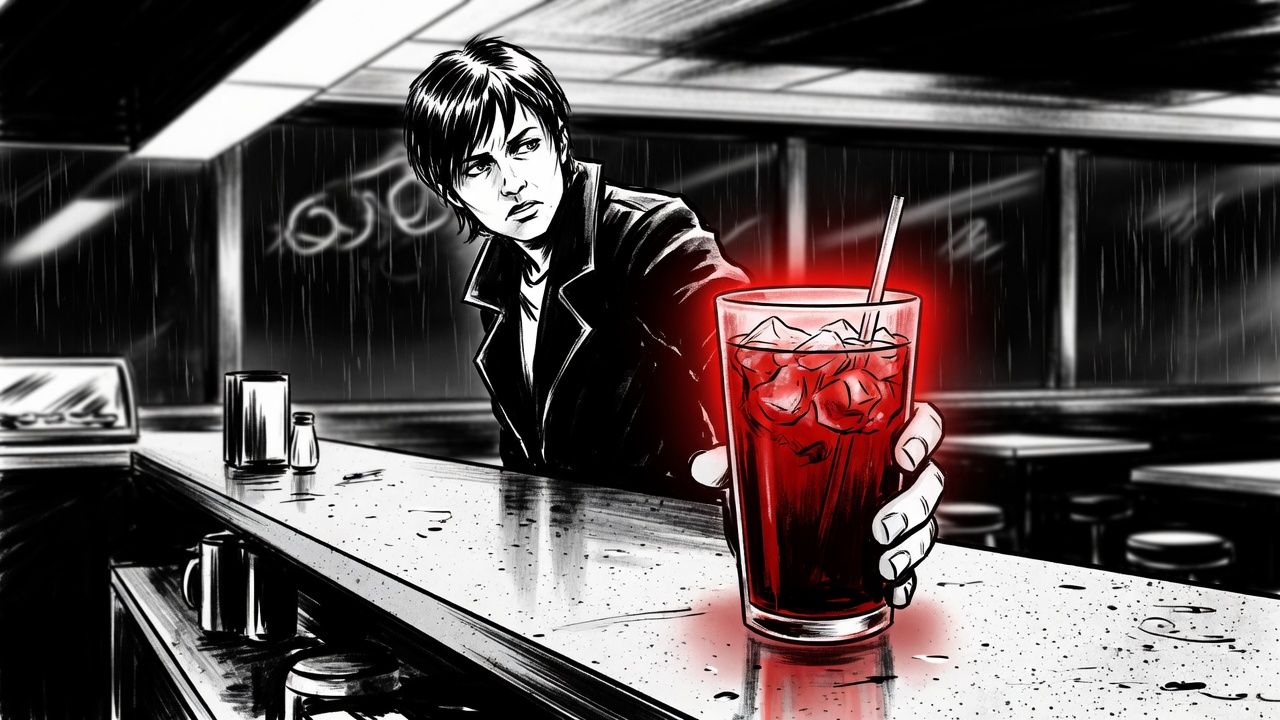
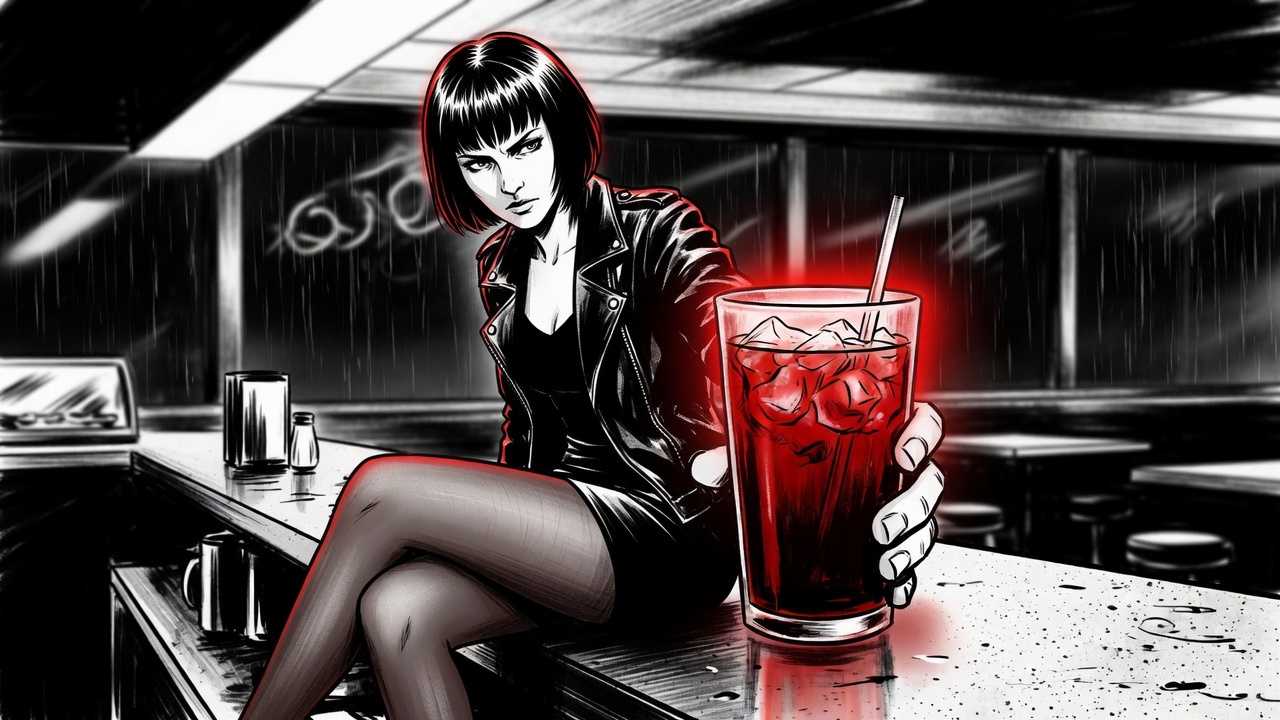
docs: 主页封面换成短发黑丝

Changed region(s): [[0.1875, 0.0306, 0.5938, 1.0]]

diff --git a/docs/readme-preview.html b/docs/readme-preview.html
@@ -1,5 +1,5 @@
 <!doctype html><html lang="zh-CN"><head><meta charset="utf-8"><meta name="viewport" content="width=device-width,initial-scale=1"><title>冷咖啡 · 仓库主页新版预览</title><style>*{box-sizing:border-box}body{margin:0;color:#1f2328;background:#fff;font:14px/1.65 -apple-system,BlinkMacSystemFont,"Segoe UI","Microsoft YaHei",sans-serif}a{color:#0969da;text-decoration:none}a:hover{text-decoration:underline}.appbar{background:#f6f8fa;border-bottom:1px solid #d1d9e0;padding:18px 30px;display:flex;justify-content:space-between;align-items:center;gap:20px}.repo-name{font-size:14px;font-weight:600}.preview-label{font-size:12px;color:#656d76}.repo-tabs{background:#f6f8fa;padding:0 30px;display:flex;gap:25px;border-bottom:1px solid #d1d9e0}.repo-tabs span{padding:12px 0;font-size:13px}.repo-tabs .selected{border-bottom:2px solid #f78166}.container{max-width:1200px;padding:28px;margin:auto}.notice{border:1px solid #d1d9e0;border-radius:7px;background:#f6f8fa;padding:14px 18px;margin-bottom:24px;display:flex;justify-content:space-between;align-items:center;gap:20px}.notice a{background:#1f2328;color:#fff;border-radius:6px;padding:8px 14px;white-space:nowrap}.repo-grid{display:grid;grid-template-columns:minmax(0,880px) 220px;gap:25px}.readme{border:1px solid #d1d9e0;border-radius:7px;overflow:hidden;min-width:0}.readme-tab{font-size:12px;padding:12px 18px;border-bottom:1px solid #d1d9e0;font-weight:600}.markdown-body{padding:30px;font-size:14px}.markdown-body img{max-width:100%;height:auto}.markdown-body h1{font-size:30px;border-bottom:1px solid #d1d9e0;padding-bottom:12px;margin:22px 0 16px}.markdown-body h2{font-size:22px;border-bottom:1px solid #d1d9e0;padding-bottom:9px;margin:34px 0 16px;scroll-margin-top:20px}.markdown-body p{margin:12px 0 18px}.markdown-body sub{color:#656d76;font-size:11px}.markdown-body table{width:100%;border-collapse:collapse;font-size:12px;margin:20px 0}.markdown-body td,.markdown-body th{border:1px solid #d1d9e0;padding:12px}.markdown-body th{background:#f6f8fa}.markdown-body blockquote{margin:24px 0;border-left:4px solid #c92537;background:#fff7f7;padding:10px 18px;color:#4f353a}.markdown-body blockquote p{margin:7px 0}.markdown-body pre{padding:16px;border-radius:7px;background:#f6f8fa;overflow:auto}.markdown-body code{font-family:Consolas,monospace;font-size:12px}.markdown-body details{border:1px solid #d1d9e0;padding:14px;border-radius:7px;margin-top:20px}.markdown-body summary{cursor:pointer;font-weight:600}.markdown-body hr{border:0;border-top:1px solid #d1d9e0;margin-top:30px}.about h3{font-size:15px;margin:0 0 14px}.about p{font-size:13px;color:#656d76}.about .tag{display:inline-block;font-size:11px;background:#ddf4ff;color:#0969da;border-radius:14px;padding:3px 9px;margin:0 3px 7px 0}.about hr{border:0;border-top:1px solid #d1d9e0;margin:22px 0}.about a{display:block;margin-top:12px;font-size:12px}@media(max-width:900px){.repo-grid{grid-template-columns:1fr}.about{display:none}.container{padding:16px}.markdown-body{padding:20px}.appbar{padding:15px}.preview-label{display:none}}@media(max-width:520px){.markdown-body{padding:12px;font-size:12px}.markdown-body h1{font-size:23px}.markdown-body th,.markdown-body td{padding:5px;font-size:10px}.notice{display:block;font-size:12px}.notice a{display:inline-block;margin-top:10px}.repo-tabs{gap:14px;padding:0 16px}.repo-tabs span{font-size:11px}}</style></head><body><header class="appbar"><div class="repo-name">3641397194-wq / <strong>gpt6-Astra</strong></div><span class="preview-label">仓库主页排版预览 · 非 GitHub 在线页面</span></header><nav class="repo-tabs"><span class="selected">代码与说明</span><span>问题讨论</span><span>变更记录</span><span>项目文档</span></nav><div class="container"><div class="notice"><span><strong>三个系统同一套界面。</strong> Key 在 coldcoffeeai.com 买，贴进软件里。仓库里不放 Key。</span><a href="/workbench/">打开软件交互预览 ↗</a></div><div class="repo-grid"><article class="readme"><div class="readme-tab">README.md · 项目主页</div><div class="markdown-body"><div align="center">
-  <img src="/docs/assets/coldcoffee-cover-v5-2a16c6d53e7a.jpg" width="100%" alt="冷咖啡黑白漫画主视觉，夜班吧台和一杯冰美式" />
+  <img src="/docs/assets/coldcoffee-cover-v5-80a57a233bf7.jpg" width="100%" alt="冷咖啡黑白漫画主视觉，夜班吧台和一杯冰美式" />
   <h1>冷咖啡 · 破甲工作台</h1>
   <p><strong>九个软件 · 一键破甲 · 一键卸载 · Windows / macOS / Linux</strong></p>
   <p>打勾，按一下。打开软件后发「冷咖啡」。不想要了，按卸载，文件回到写入之前。</p>

diff --git a/docs/index.html b/docs/index.html
@@ -1,5 +1,5 @@
 <!doctype html><html lang="zh-CN"><head><meta charset="utf-8"><meta name="viewport" content="width=device-width,initial-scale=1"><title>冷咖啡 · 仓库主页新版预览</title><style>*{box-sizing:border-box}body{margin:0;color:#1f2328;background:#fff;font:14px/1.65 -apple-system,BlinkMacSystemFont,"Segoe UI","Microsoft YaHei",sans-serif}a{color:#0969da;text-decoration:none}a:hover{text-decoration:underline}.appbar{background:#f6f8fa;border-bottom:1px solid #d1d9e0;padding:18px 30px;display:flex;justify-content:space-between;align-items:center;gap:20px}.repo-name{font-size:14px;font-weight:600}.preview-label{font-size:12px;color:#656d76}.repo-tabs{background:#f6f8fa;padding:0 30px;display:flex;gap:25px;border-bottom:1px solid #d1d9e0}.repo-tabs span{padding:12px 0;font-size:13px}.repo-tabs .selected{border-bottom:2px solid #f78166}.container{max-width:1200px;padding:28px;margin:auto}.notice{border:1px solid #d1d9e0;border-radius:7px;background:#f6f8fa;padding:14px 18px;margin-bottom:24px;display:flex;justify-content:space-between;align-items:center;gap:20px}.notice a{background:#1f2328;color:#fff;border-radius:6px;padding:8px 14px;white-space:nowrap}.repo-grid{display:grid;grid-template-columns:minmax(0,880px) 220px;gap:25px}.readme{border:1px solid #d1d9e0;border-radius:7px;overflow:hidden;min-width:0}.readme-tab{font-size:12px;padding:12px 18px;border-bottom:1px solid #d1d9e0;font-weight:600}.markdown-body{padding:30px;font-size:14px}.markdown-body img{max-width:100%;height:auto}.markdown-body h1{font-size:30px;border-bottom:1px solid #d1d9e0;padding-bottom:12px;margin:22px 0 16px}.markdown-body h2{font-size:22px;border-bottom:1px solid #d1d9e0;padding-bottom:9px;margin:34px 0 16px;scroll-margin-top:20px}.markdown-body p{margin:12px 0 18px}.markdown-body sub{color:#656d76;font-size:11px}.markdown-body table{width:100%;border-collapse:collapse;font-size:12px;margin:20px 0}.markdown-body td,.markdown-body th{border:1px solid #d1d9e0;padding:12px}.markdown-body th{background:#f6f8fa}.markdown-body blockquote{margin:24px 0;border-left:4px solid #c92537;background:#fff7f7;padding:10px 18px;color:#4f353a}.markdown-body blockquote p{margin:7px 0}.markdown-body pre{padding:16px;border-radius:7px;background:#f6f8fa;overflow:auto}.markdown-body code{font-family:Consolas,monospace;font-size:12px}.markdown-body details{border:1px solid #d1d9e0;padding:14px;border-radius:7px;margin-top:20px}.markdown-body summary{cursor:pointer;font-weight:600}.markdown-body hr{border:0;border-top:1px solid #d1d9e0;margin-top:30px}.about h3{font-size:15px;margin:0 0 14px}.about p{font-size:13px;color:#656d76}.about .tag{display:inline-block;font-size:11px;background:#ddf4ff;color:#0969da;border-radius:14px;padding:3px 9px;margin:0 3px 7px 0}.about hr{border:0;border-top:1px solid #d1d9e0;margin:22px 0}.about a{display:block;margin-top:12px;font-size:12px}@media(max-width:900px){.repo-grid{grid-template-columns:1fr}.about{display:none}.container{padding:16px}.markdown-body{padding:20px}.appbar{padding:15px}.preview-label{display:none}}@media(max-width:520px){.markdown-body{padding:12px;font-size:12px}.markdown-body h1{font-size:23px}.markdown-body th,.markdown-body td{padding:5px;font-size:10px}.notice{display:block;font-size:12px}.notice a{display:inline-block;margin-top:10px}.repo-tabs{gap:14px;padding:0 16px}.repo-tabs span{font-size:11px}}</style></head><body><header class="appbar"><div class="repo-name">3641397194-wq / <strong>gpt6-Astra</strong></div><span class="preview-label">仓库主页排版预览 · 非 GitHub 在线页面</span></header><nav class="repo-tabs"><span class="selected">代码与说明</span><span>问题讨论</span><span>变更记录</span><span>项目文档</span></nav><div class="container"><div class="notice"><span><strong>三个系统同一套界面。</strong> Key 在 coldcoffeeai.com 买，贴进软件里。仓库里不放 Key。</span><a href="#上手使用">启动软件：查看步骤 ↓</a></div><div class="repo-grid"><article class="readme"><div class="readme-tab">README.md · 项目主页</div><div class="markdown-body"><div align="center">
-  <img src="assets/coldcoffee-cover-v5-2a16c6d53e7a.jpg" width="100%" alt="冷咖啡黑白漫画主视觉，夜班吧台和一杯冰美式" />
+  <img src="assets/coldcoffee-cover-v5-80a57a233bf7.jpg" width="100%" alt="冷咖啡黑白漫画主视觉，夜班吧台和一杯冰美式" />
   <h1>冷咖啡 · 破甲工作台</h1>
   <p><strong>九个软件 · 一键破甲 · 一键卸载 · Windows / macOS / Linux</strong></p>
   <p>打勾，按一下。打开软件后发「冷咖啡」。不想要了，按卸载，文件回到写入之前。</p>

diff --git a/README.md b/README.md
@@ -1,5 +1,5 @@
 <div align="center">
-  <img src="docs/assets/coldcoffee-cover-v5-2a16c6d53e7a.jpg" width="100%" alt="冷咖啡黑白漫画主视觉，夜班吧台和一杯冰美式" />
+  <img src="docs/assets/coldcoffee-cover-v5-80a57a233bf7.jpg" width="100%" alt="冷咖啡黑白漫画主视觉，夜班吧台和一杯冰美式" />
   <h1>冷咖啡 · 破甲工作台</h1>
   <p><strong>九个软件 · 一键破甲 · 一键卸载 · Windows / macOS / Linux</strong></p>
   <p>打勾，按一下。打开软件后发「冷咖啡」。不想要了，按卸载，文件回到写入之前。</p>
